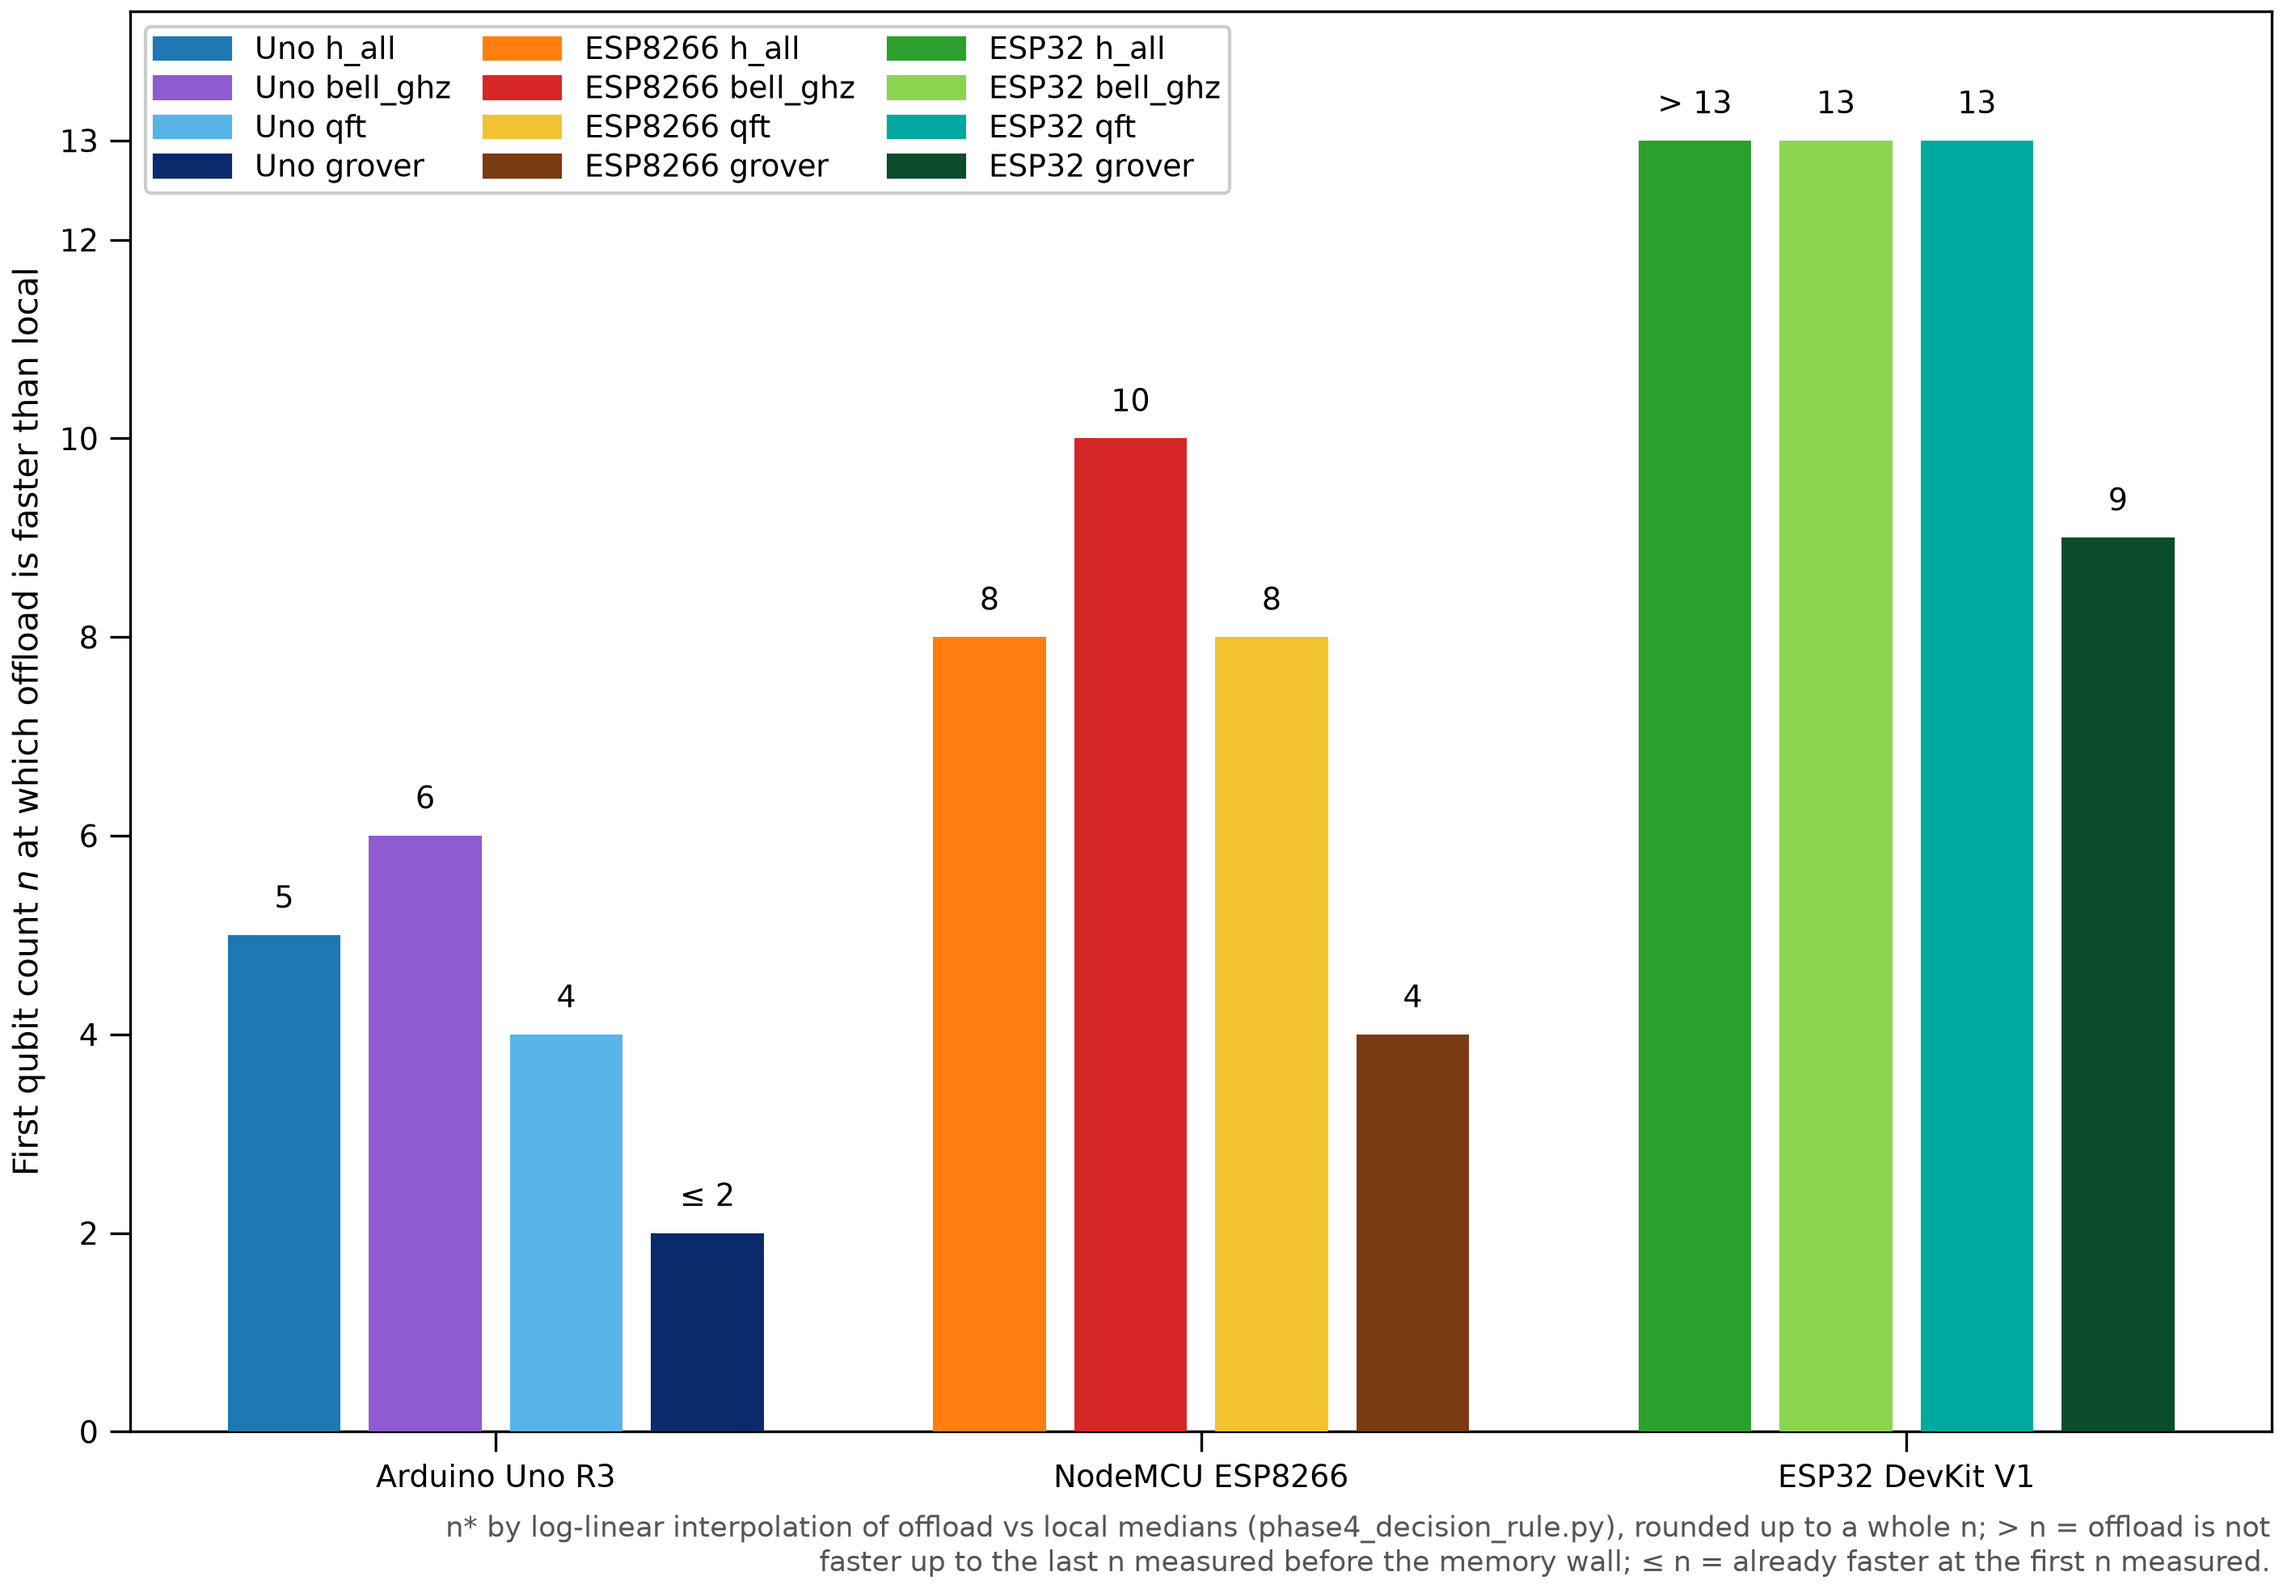
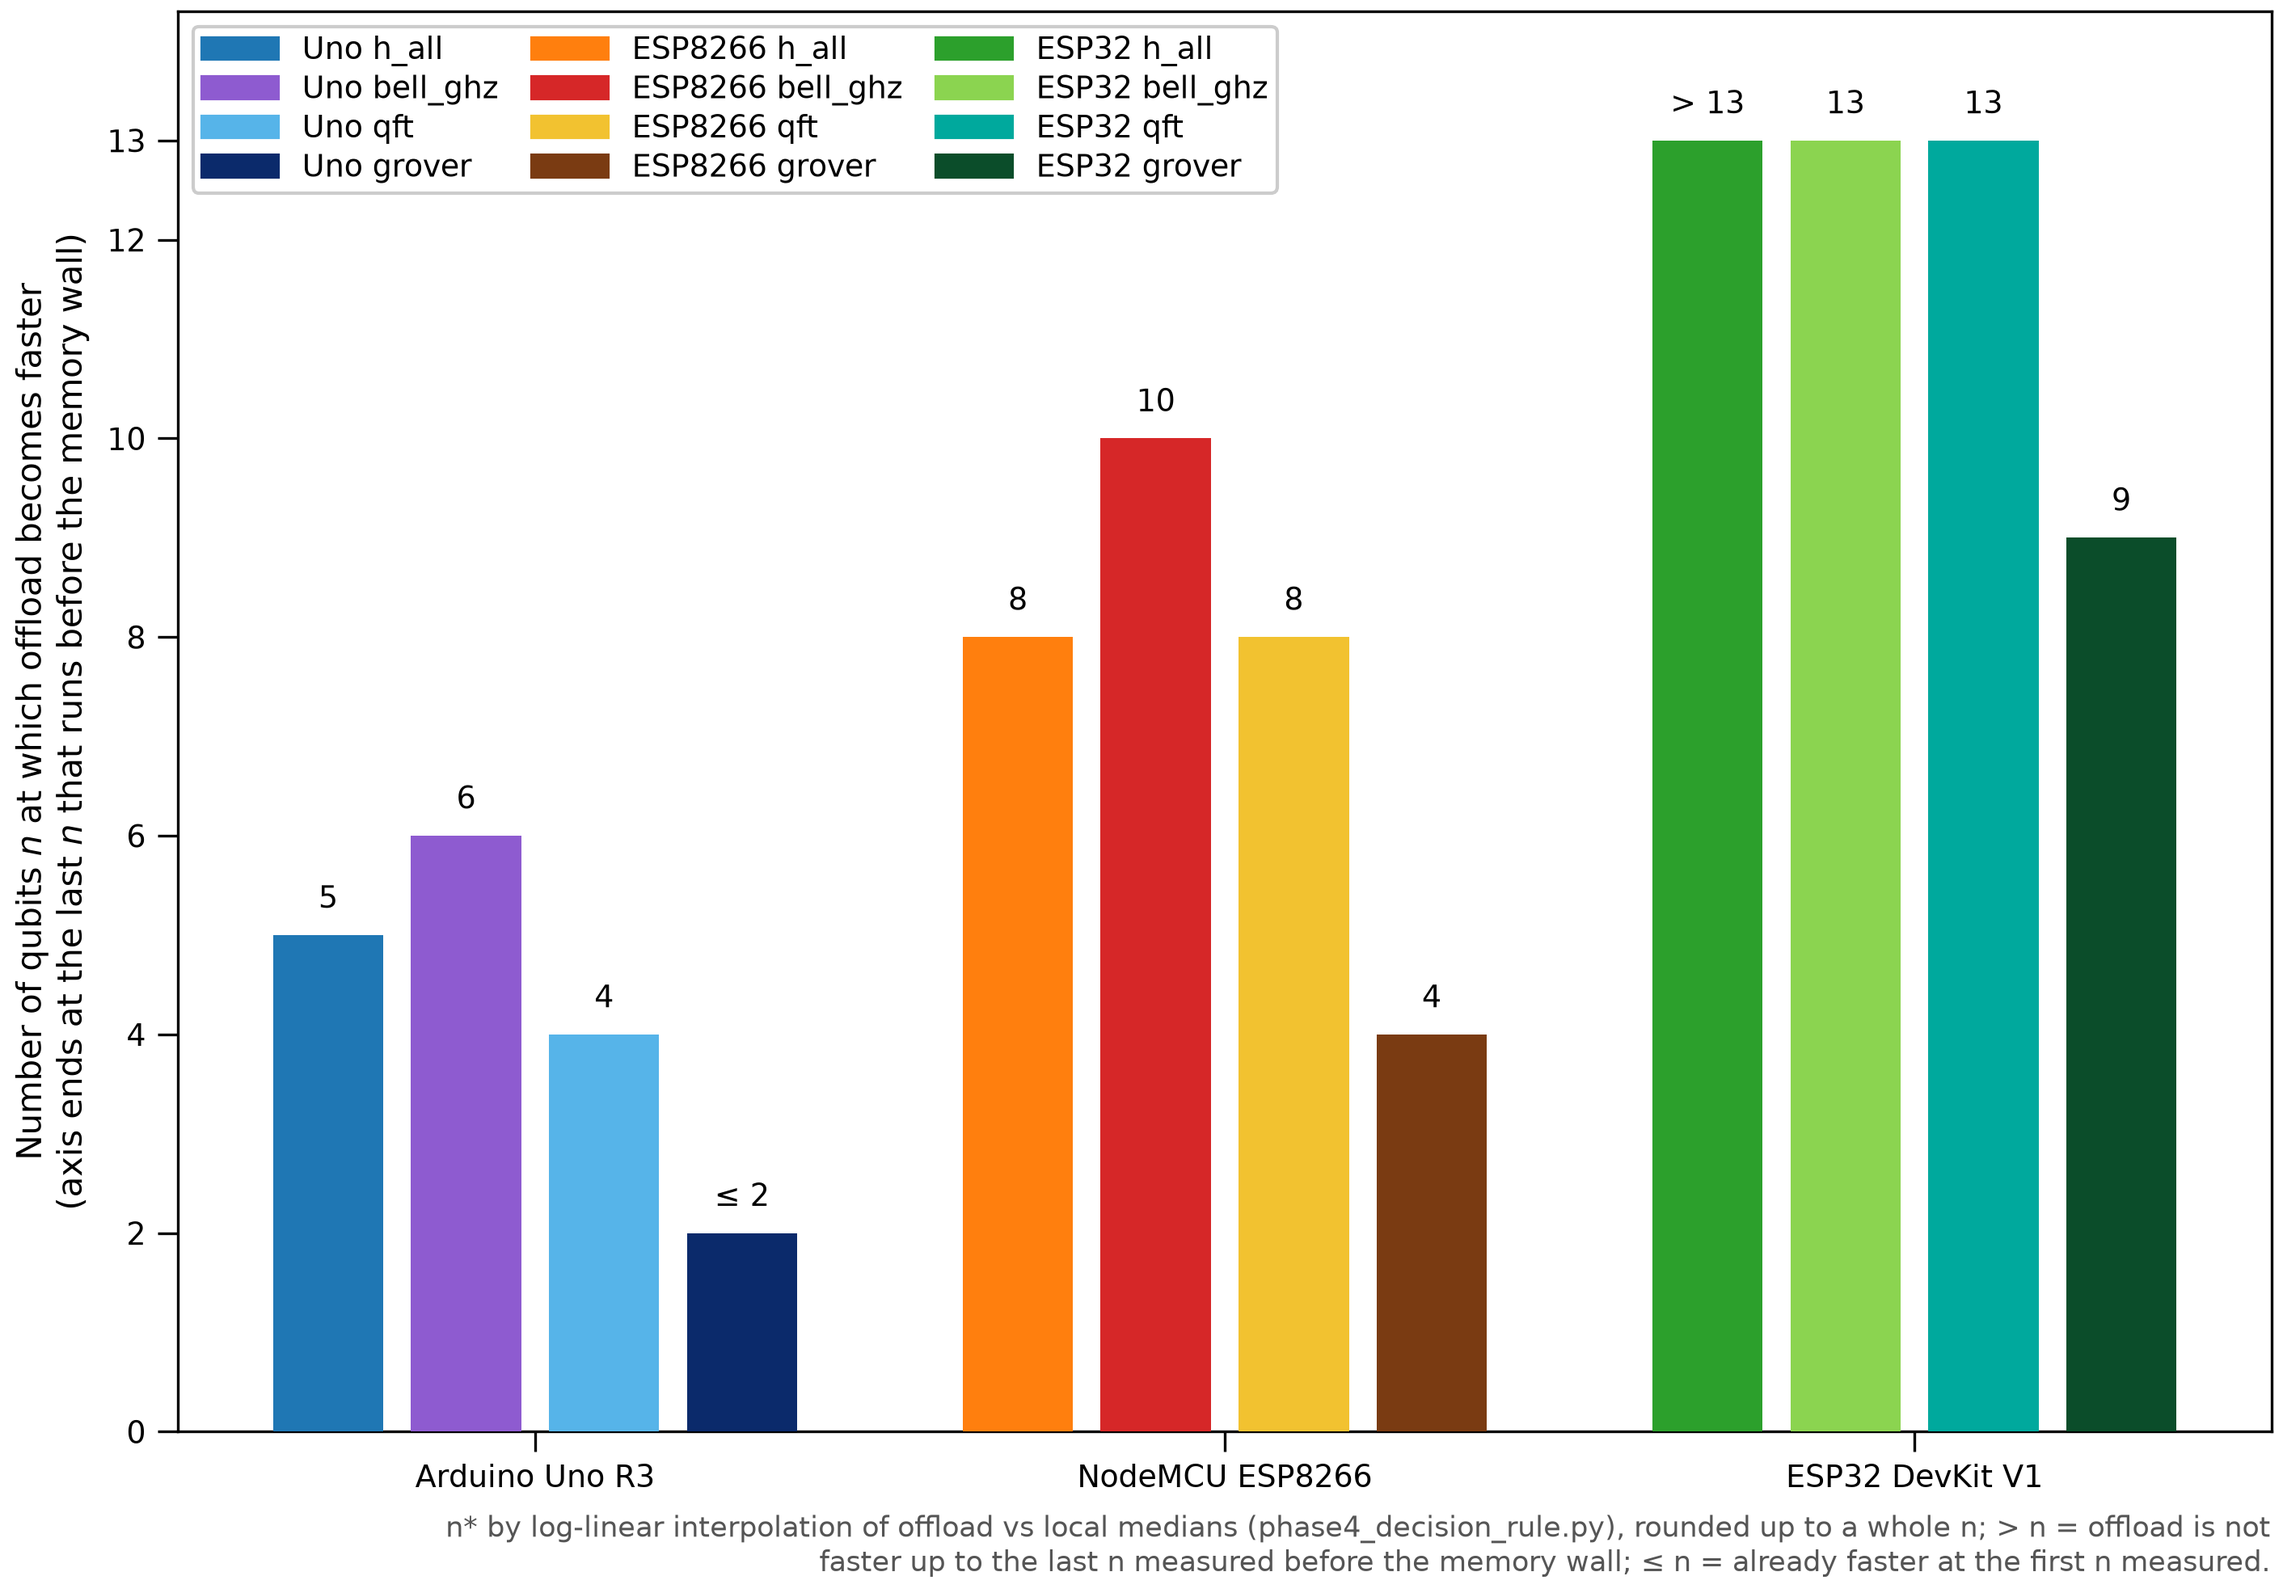
figures: phase 4 crossover bar chart y label states the n scale up to the memory wall

diff --git a/analysis/phase4_all_in_one.py b/analysis/phase4_all_in_one.py
@@ -47,7 +47,7 @@ def main():
             ax.text(x, k + 0.2, f"≤ {k}" if r.flag == "at_or_below_first_n" else f"{k}", ha="center", va="bottom",
                     fontsize=9)
     ax.set_xticks([bi * (nc + 1) + (nc - 1) / 2 for bi in range(nb)], [ps.BOARD_LABEL[b] for b in ps.BOARD_ORDER])
-    ax.set_ylabel("First qubit count $n$ at which offload is faster than local")
+    ax.set_ylabel("Number of qubits $n$ at which offload becomes faster\n(axis ends at the last $n$ that runs before the memory wall)")
     top = max(int(str(r.common_n).split("..")[1]) for r in df.itertuples() if str(r.common_n).count("..") == 1)      # the largest n measured before a memory wall
     ax.set_ylim(0, top + 1.3)
     ax.set_yticks(sorted(set(range(0, top + 1, 2 if top > 8 else 1)) | {top}))      # the last tick is the largest n before a wall
